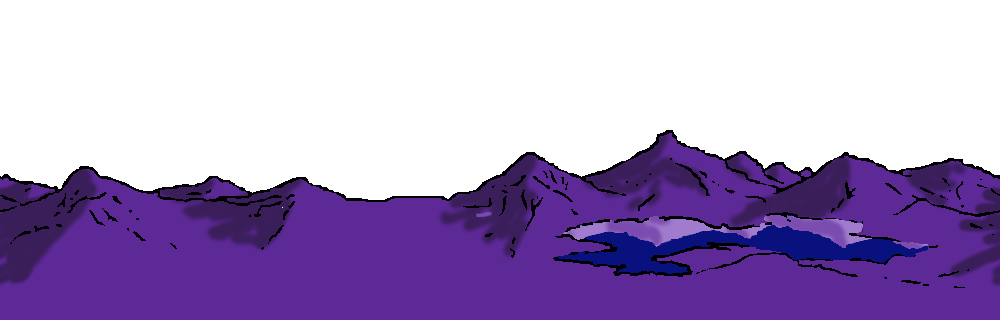
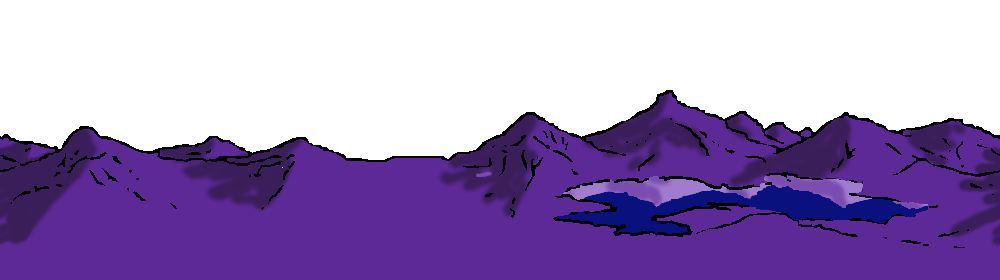
More stuff added to footer
almost done

Changed region(s): [[0.0, 0.3143, 1.0, 0.9143], [0.0, 0.8571, 0.031, 0.8857]]

diff --git a/css/style.css b/css/style.css
@@ -330,7 +330,7 @@ img {
 #footer-wrapper {
 	width: 100%;
     background-size: auto 100%;
-    background-position: 60% center;
+    background-position: center center;
     background-image: url("/images/footer_underground.png");
     background-repeat: repeat-x;
 }
@@ -345,12 +345,13 @@ img {
     display: inline-block;
     width: 100%;
     height: 100px;
+    background-position: center top;
     background-image: url("/images/hanging_grass.png");
     background-repeat: repeat-x;
 }
 
 #footer-spacer {
-	padding: 100px 100px 200px 100px
+	padding: 100px 100px 170px 100px
 }
 
 #footer-text, #footer-emojis {
